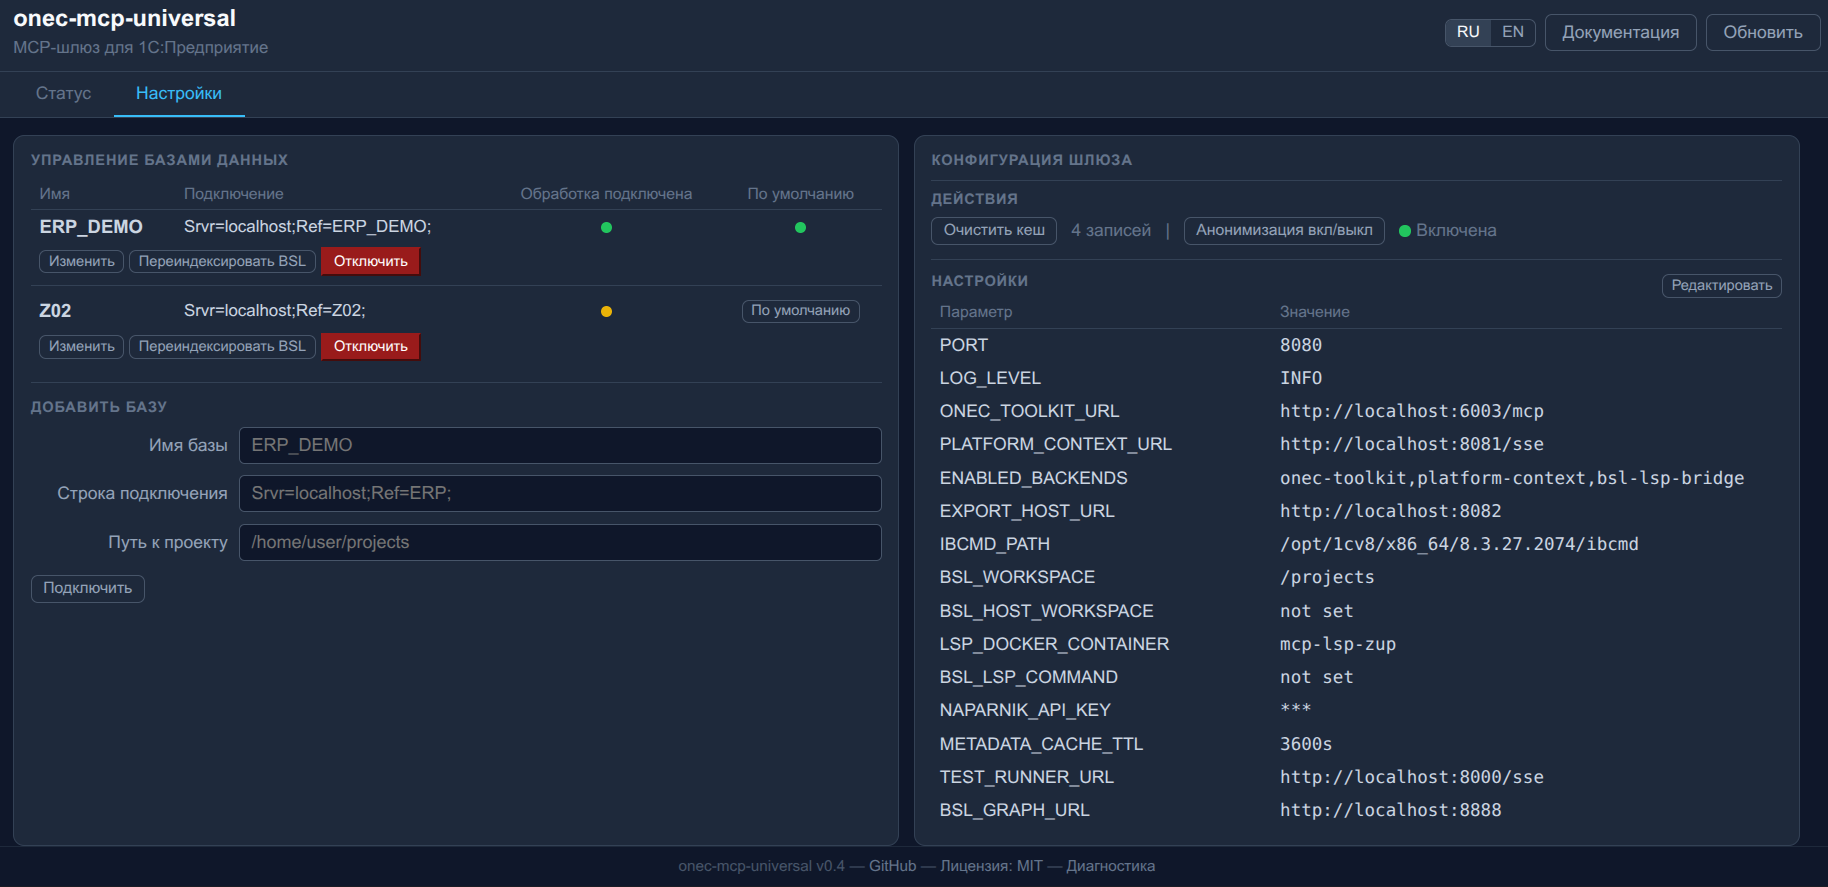
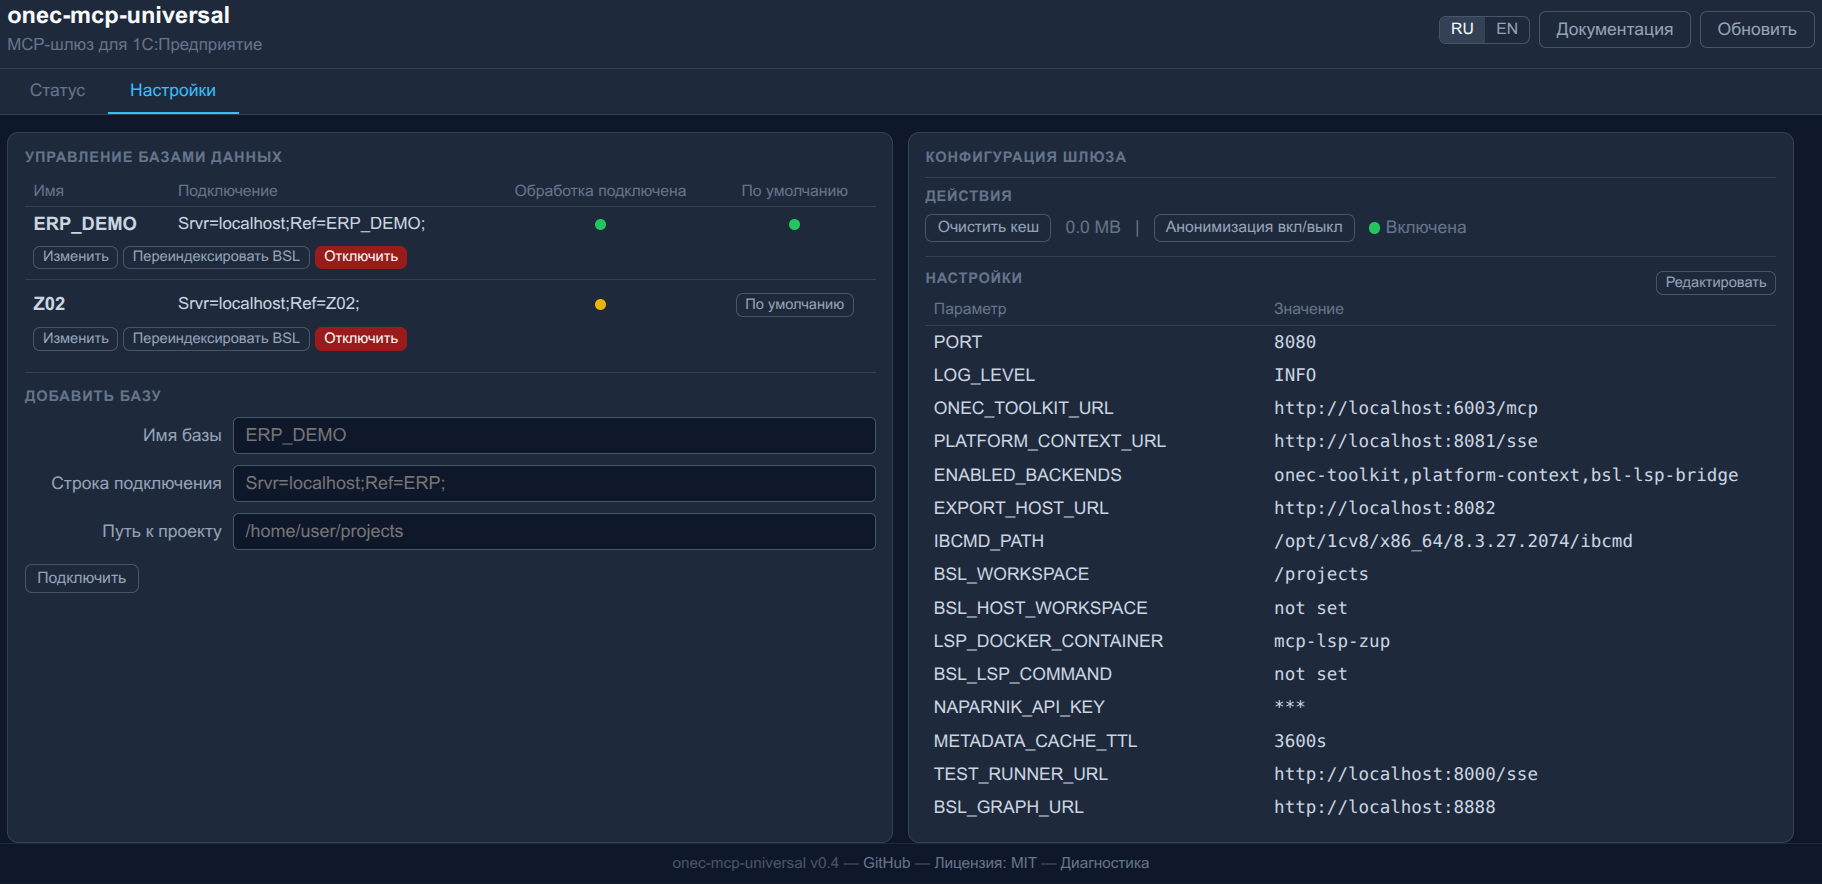
docs: update settings screenshot, add EPF form screenshot

diff --git a/README.md b/README.md
@@ -846,7 +846,9 @@ http://localhost:8080/dashboard/docs
 
 **Статус подключения** отображается на дашборде (`http://localhost:8080/dashboard`) -- вкладка "Информация", раздел "Подключённые базы". Зелёный индикатор EPF означает, что обработка активна.
 
-Исходный код обработки: [`1c/MCPToolkit.epf`](1c/MCPToolkit.epf). Репозиторий: [GitHub](https://github.com/AlekseiSeleznev/onec-mcp-universal).
+Исходный код обработки: [`1c/MCPToolkit.epf`](1c/MCPToolkit.epf).
+
+![MCPToolkit.epf](docs/epf-form.png)
 
 ---
 
